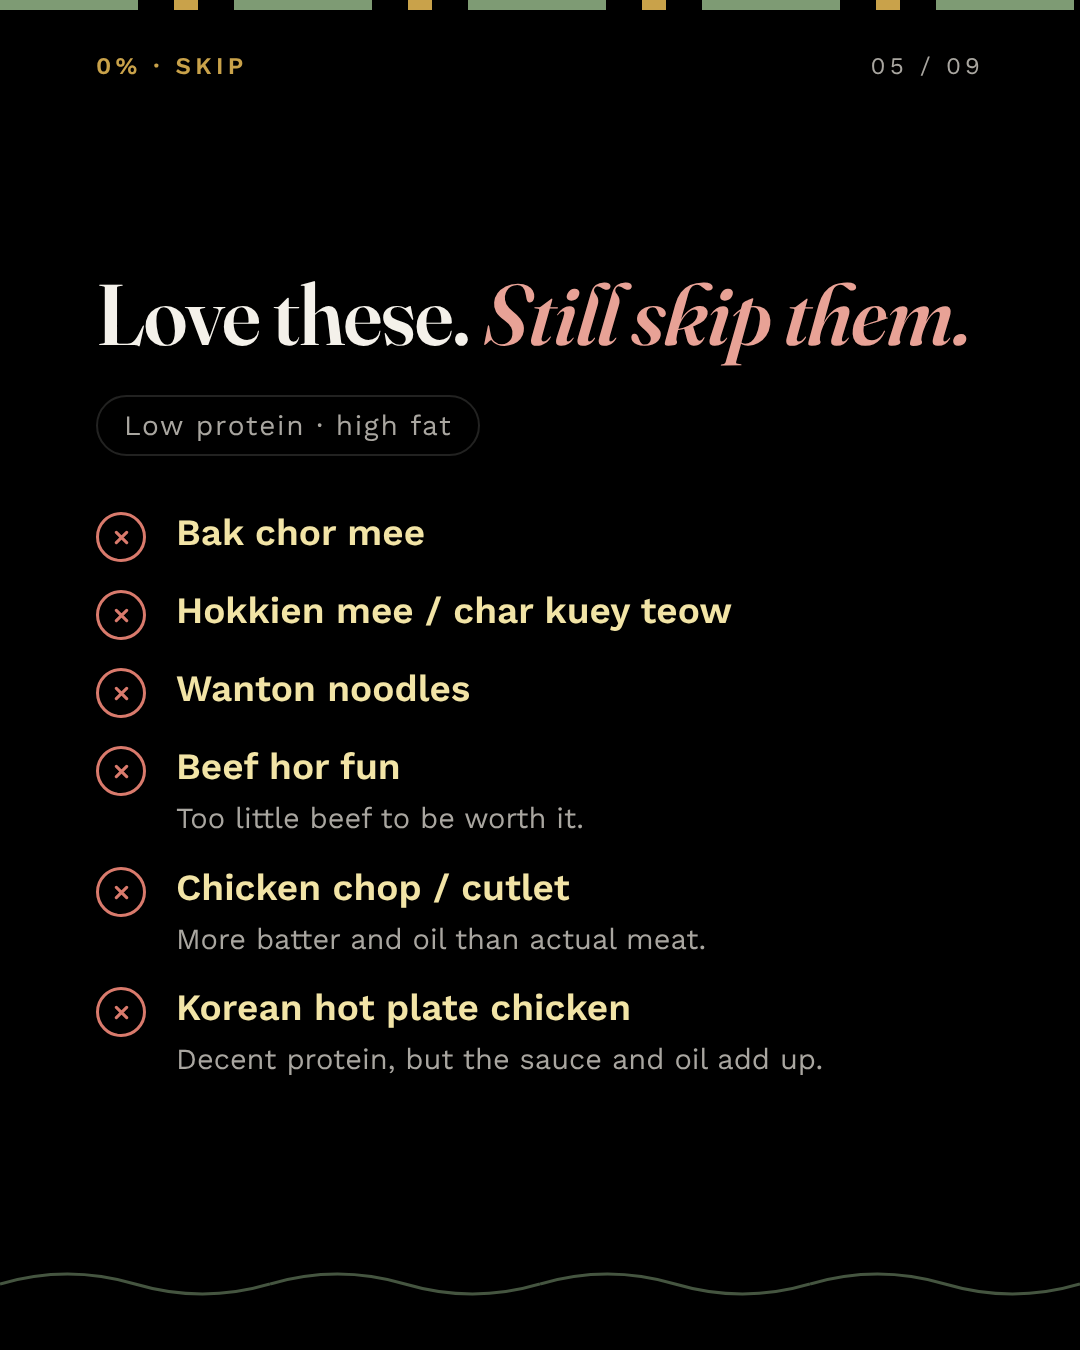
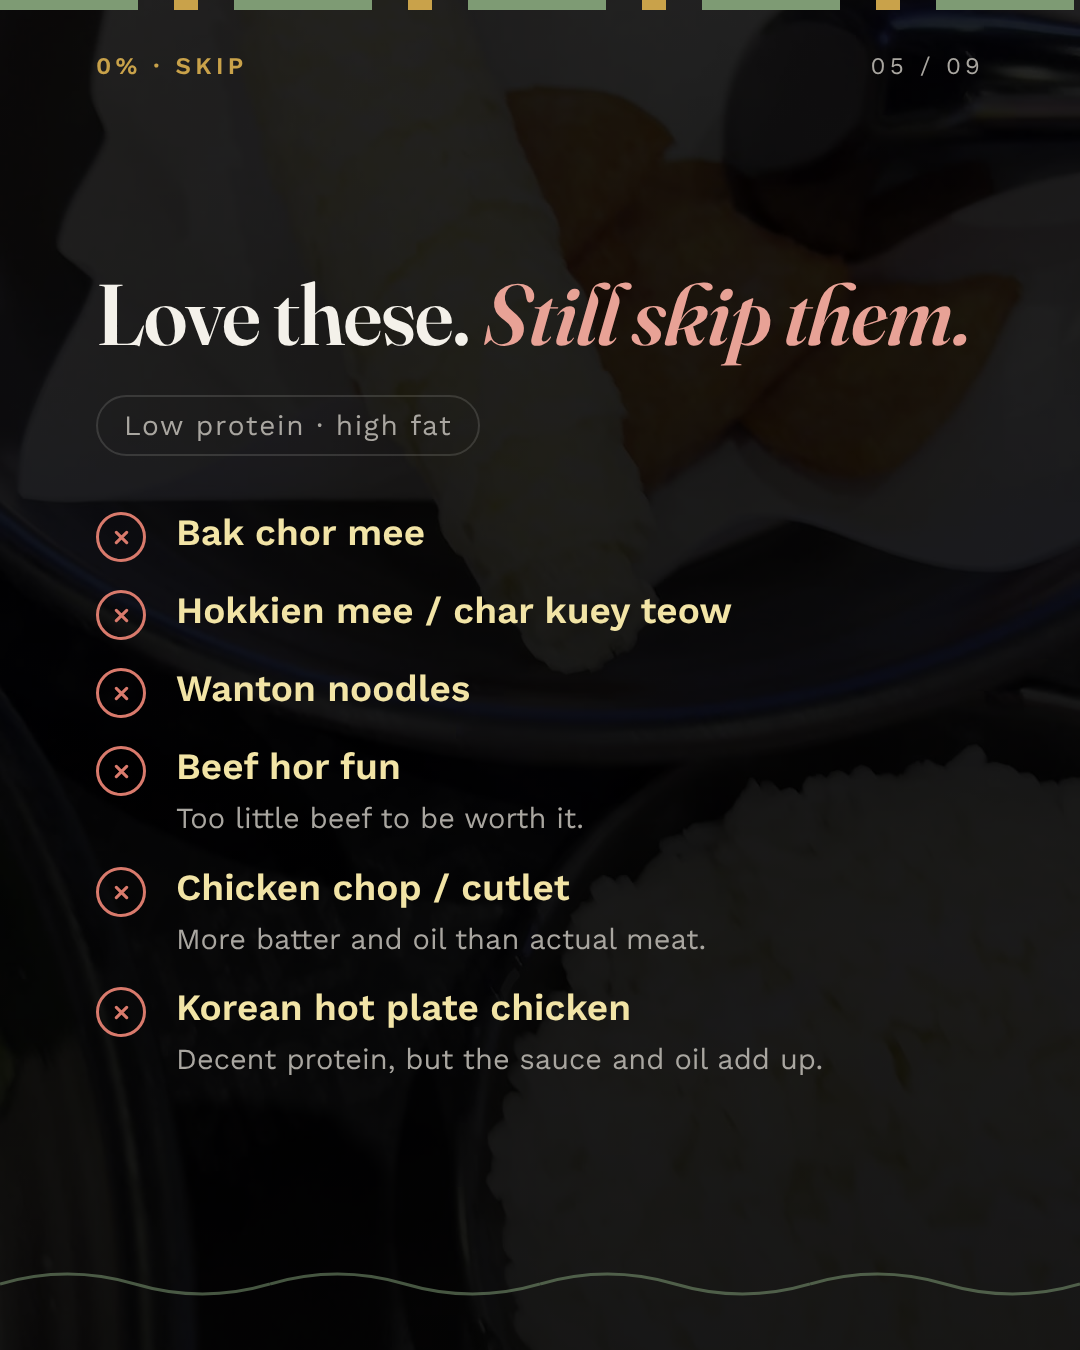
Food guide carousel: add own food photos as slide backgrounds
Claude-Session: https://claude.ai/code/session_01QNxkYZ2h6udsyHuSyBd6uT

diff --git a/instagram/food-guide-fat-loss.html b/instagram/food-guide-fat-loss.html
@@ -222,7 +222,10 @@
   .slide > .top{ position:absolute; }
   .slide::after{ bottom:46px; }
   /* cover + CTA: photo shows through at the top, text sits on the dark lower half */
-  .cover, .cta{ --shade:linear-gradient(180deg, rgba(0,0,0,.15) 0%, rgba(0,0,0,.55) 32%, rgba(0,0,0,.93) 55%, #000 100%); justify-content:flex-end; }
+  .cover, .cta{ --shade:linear-gradient(180deg, rgba(0,0,0,.75) 0%, rgba(0,0,0,.2) 12%, rgba(0,0,0,.3) 28%, rgba(0,0,0,.9) 52%, #000 100%); justify-content:flex-end; }
+  .cover{ background-size:auto, 165%, auto; background-position:center, 45% 92%, center; }
+  .cta{ background-size:auto, 130%, auto; background-position:center, center 30%, center; }
+  .skip{ --shade:linear-gradient(rgba(0,0,0,.86), rgba(0,0,0,.9)); }
 </style>
 </head>
 <body>
@@ -236,7 +239,7 @@
 <div class="deck" id="deck">
 
   <!-- ======================= 1 · COVER ======================= -->
-  <section class="slide cover" style="--photo:url(assets/food/cover.jpg)">
+  <section class="slide cover" style="--photo:url(assets/food/cereal.jpg)">
     <div class="top"><span class="tag" contenteditable>Fat loss food guide</span><span class="count"></span></div>
     <div class="eyebrow" contenteditable>What I actually eat</div>
     <h1 contenteditable>My <em>80/20</em> plate for fat loss.</h1>
@@ -269,7 +272,7 @@
   </section>
 
   <!-- ======================= 3 · 80% ======================= -->
-  <section class="slide list foods" style="--photo:url(assets/food/oats.jpg)">
+  <section class="slide list foods" style="--photo:url(assets/food/cereal.jpg)">
     <div class="top"><span class="tag" contenteditable>80% · Everyday</span><span class="count"></span></div>
     <h2 contenteditable>What I eat <em>most days.</em></h2>
     <div class="pill" contenteditable>High protein · low fat · decent carbs</div>
@@ -284,7 +287,7 @@
   </section>
 
   <!-- ======================= 4 · 20% ======================= -->
-  <section class="slide list foods sometimes" style="--photo:url(assets/food/mala.jpg)">
+  <section class="slide list foods sometimes" style="--photo:url(assets/food/soup.jpg)">
     <div class="top"><span class="tag" contenteditable>20% · Sometimes</span><span class="count"></span></div>
     <h2 contenteditable>Still on the menu. <em>Order smart.</em></h2>
     <ul contenteditable>
@@ -296,7 +299,7 @@
   </section>
 
   <!-- ======================= 5 · SKIP ======================= -->
-  <section class="slide list foods skip tight" style="--photo:url(assets/food/noodles.jpg)">
+  <section class="slide list foods skip tight" style="--photo:url(assets/food/fried.jpg)">
     <div class="top"><span class="tag" contenteditable>0% · Skip</span><span class="count"></span></div>
     <h2 class="skip-head" contenteditable>Love these. <em>Still skip them.</em></h2>
     <div class="pill" contenteditable>Low protein · high fat</div>
@@ -311,7 +314,7 @@
   </section>
 
   <!-- ======================= 6 · TIP 01 (SOUP) ======================= -->
-  <section class="slide point" style="--photo:url(assets/food/soup.jpg)">
+  <section class="slide point" style="--photo:url(assets/food/curry-soup.jpg)">
     <div class="top"><span class="tag" contenteditable>Cut the fat · Tip 1</span><span class="count"></span></div>
     <div class="num">01</div>
     <h2 contenteditable>Don't finish <em>the soup.</em></h2>
@@ -319,7 +322,7 @@
   </section>
 
   <!-- ======================= 7 · MORE TIPS ======================= -->
-  <section class="slide list foods" style="--photo:url(assets/food/berries.jpg)">
+  <section class="slide list foods" style="--photo:url(assets/food/cereal.jpg)">
     <div class="top"><span class="tag" contenteditable>Cut the fat · Tips 2–6</span><span class="count"></span></div>
     <h2 contenteditable>5 more easy <em>fat cuts.</em></h2>
     <ul contenteditable>
@@ -332,7 +335,7 @@
   </section>
 
   <!-- ======================= 8 · QUOTE ======================= -->
-  <section class="slide quote" style="--photo:url(assets/food/chicken-rice.jpg)">
+  <section class="slide quote" style="--photo:url(assets/food/soup.jpg)">
     <div class="top"><span class="tag" contenteditable>Real results</span><span class="count"></span></div>
     <div class="mark">“</div>
     <div class="stars">★★★★★</div>
@@ -341,7 +344,7 @@
   </section>
 
   <!-- ======================= 9 · CTA ======================= -->
-  <section class="slide cta" style="--photo:url(assets/food/cta.jpg)">
+  <section class="slide cta" style="--photo:url(assets/food/curry-soup.jpg)">
     <div class="top"><span class="tag" contenteditable>Your next step</span><span class="count"></span></div>
     <img src="assets/augustine.jpg" alt="">
     <h2 contenteditable>Save this for your next <em>hawker run.</em></h2>
